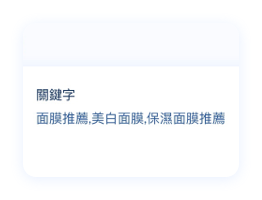
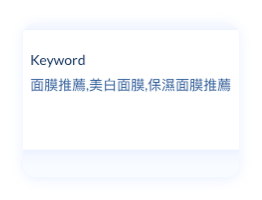
[feat] 更新圖片

Changed region(s): [[0.0916, 0.39, 0.8855, 0.51], [0.1221, 0.54, 0.8855, 0.63], [0.0916, 0.27, 0.3359, 0.36]]

diff --git a/src/components/adsvantage/aiwriter/Product.tsx b/src/components/adsvantage/aiwriter/Product.tsx
@@ -150,8 +150,10 @@ interface IProps {
 
 const TrackingChild = ({isVisible}: IProps) => {
     const classes = useStyles();
+    const {lang} = useTranslation();
     const [transId, setTransId] = useState(0);
     const [transitions, setTransitions] = useState([false, false, false, false]);
+    const keywordCoverUrl = lang === 'zh' ? '/adsvantage/aiwriter/pop-keyword-zh.png' : '/adsvantage/aiwriter/pop-keyword.png';
     useEffect(() => {
         if (!isVisible) {
             setTransId(0);
@@ -184,7 +186,7 @@ const TrackingChild = ({isVisible}: IProps) => {
                 classes.popKeyword,
                 transitions[1] ? 'active' : null
             )}>
-                <BackgroundImage imgUrl={'/adsvantage/aiwriter/pop-keyword.png'} backgroundSize={"contain"}/>
+                <BackgroundImage imgUrl={keywordCoverUrl} backgroundSize={"contain"}/>
             </RatioContainer>
             <img src="/images/md/adsvantage/aiwriter/arrow2.svg" alt="" className={clsx(
                 classes.arrowRight,
